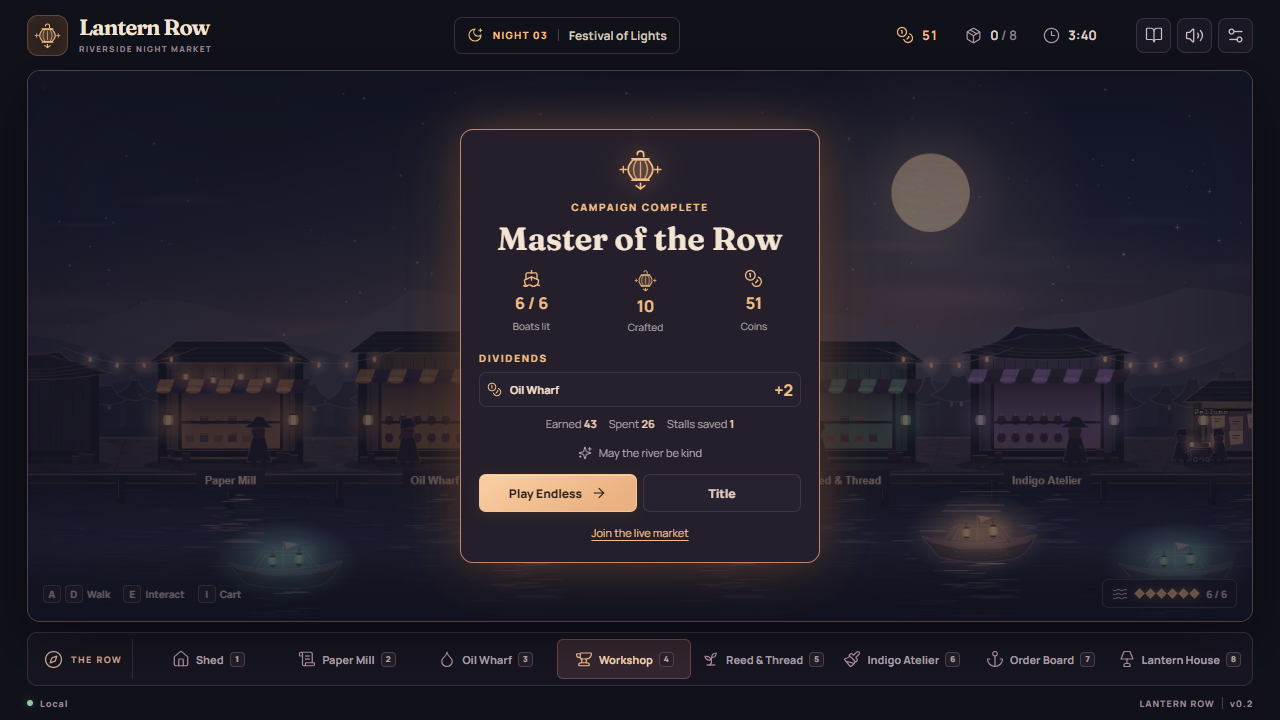
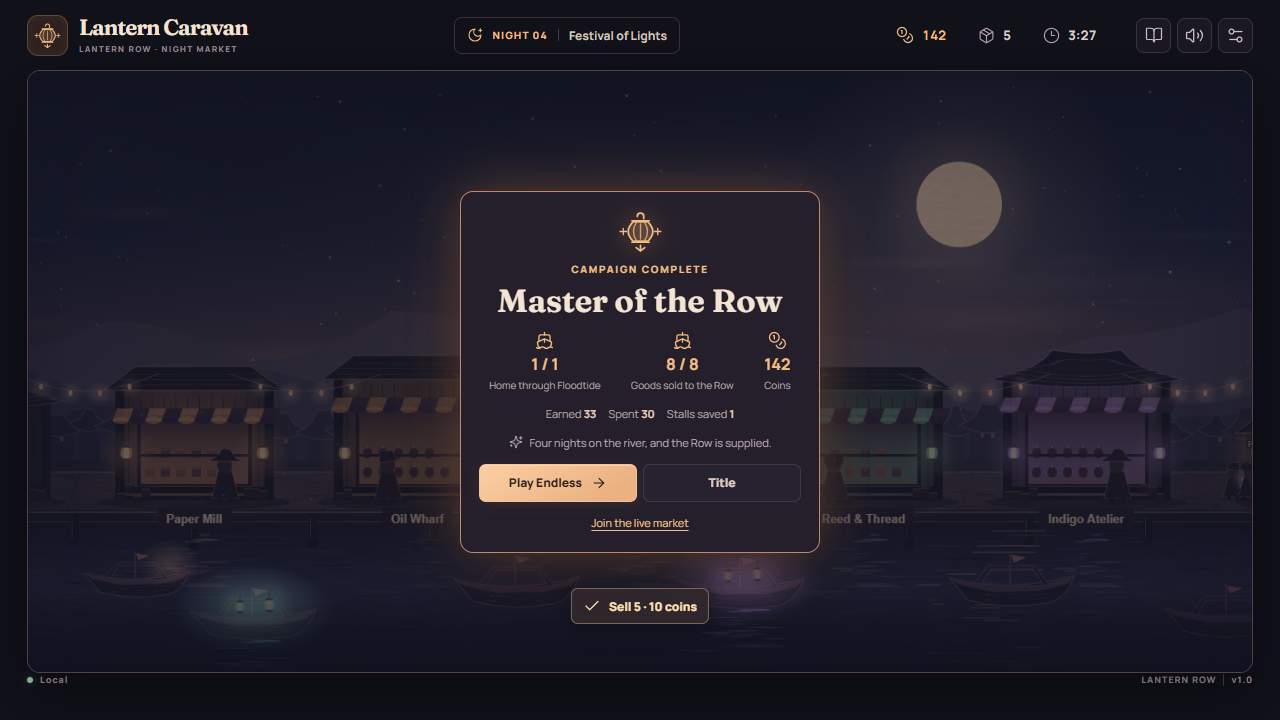
README and night report for the river-first game
- README: the Dock loop, the four river nights, the drawer, and new
  screenshots of the river, the Dock, a haul to sell and the ending.
- The night report shows tonight's river goals instead of boats lit and
  lanterns crafted.
- HANDOFF records the redesign, its checks and what's still open.

diff --git a/apps/web/src/ui/Campaign.tsx b/apps/web/src/ui/Campaign.tsx
@@ -98,7 +98,6 @@ export function NightReport({ snapshot, busy, advance, retry, title, live }: {
   const complete = snapshot.objective.complete;
   const finale = snapshot.mode === "campaign" && snapshot.night === 4 && complete;
   const dividends = Object.entries(snapshot.merchants).filter(([, merchant]) => Number(merchant.dividend));
-  const boats = snapshot.orders.filter(order => order.state === "filled").length;
   const canContinue = complete || snapshot.mode === "endless";
   return <div className={`result-shade ${finale ? "festival-finale" : ""}`}>
     <section className="results preparation" aria-label="Night results">
@@ -106,8 +105,8 @@ export function NightReport({ snapshot, busy, advance, retry, title, live }: {
       <div className="eyebrow">{finale ? "CAMPAIGN COMPLETE" : nightLabel(snapshot.night) + " · RESULTS"}</div>
       <h2>{finale ? "Master of the Row" : complete ? snapshot.nightName : "The Row is closing"}</h2>
       <div className="result-metrics">
-        <div><Ship size={19}/><b>{boats} / 6</b><small>Boats lit</small></div>
-        <div><LanternMark size={23}/><b>{finale ? snapshot.lifetimeCrafted : snapshot.delivered}</b><small>{finale ? "Crafted" : "Delivered"}</small></div>
+        {/* Tonight's river goals, as the Dock showed them. */}
+        {snapshot.objective.steps.slice(0, 2).map(step => <div key={step.label}><Ship size={19}/><b>{step.count} / {step.target}</b><small>{step.label}</small></div>)}
         <div><Coins size={19}/><b>{snapshot.coins}</b><small>Coins</small></div>
       </div>
       {dividends.length > 0 && <div className="prep-list">
@@ -117,7 +116,7 @@ export function NightReport({ snapshot, busy, advance, retry, title, live }: {
       </div>}
       <div className="result-details"><span>Earned <b>{snapshot.earned}</b></span><span>Spent <b>{snapshot.spent}</b></span>
         {finale && <span>Stalls saved <b>{snapshot.rescued}</b></span>}</div>
-      {finale && <p className="hint"><Sparkles size={14}/> {snapshot.orders.flatMap(order => order.wishes)[0] ?? "Your light will carry downriver."}</p>}
+      {finale && <p className="hint"><Sparkles size={14}/> Four nights on the river, and the Row is supplied.</p>}
       <div className="button-pair">
         {snapshot.mode === "live" ? <button className="subtle" onClick={title}>Leave the Row</button> : <>
           <button className="primary" onClick={canContinue ? advance : retry} disabled={busy}>

diff --git a/tests/e2e/campaign.spec.ts b/tests/e2e/campaign.spec.ts
@@ -42,10 +42,11 @@ export async function playCampaign(page: Page) {
     await expect(river).toHaveCount(0);
   };
   /** Ember Falls is straight up the river from the Landing. */
-  const emberFalls = async (size: number) => {
+  const emberFalls = async (size: number, shot?: string) => {
     const trade = river.getByRole("button", { name: /Trade at Ember Falls/ });
     await hold(["w", "Shift", " "], () => trade.isVisible());
     await expect(trade).toBeVisible();
+    if (shot) await capture(shot);
     await page.keyboard.press("e");
     await expect(market.getByRole("heading", { name: "Ember Falls" })).toBeVisible();
     await buy("Lamp oil", size);
@@ -88,9 +89,10 @@ export async function playCampaign(page: Page) {
   await expect(dock.getByRole("status")).toContainText("Cast off");
   await capture("dock");
   await castOff();
-  await emberFalls(10);
+  await emberFalls(10, "river-run");
   await moor();
   await expect(dock.getByText("River run 1/1")).toBeVisible();
+  await capture("dock-haul");
   await sellHaul();
   await closeNight();
   await button("Next night").click();

diff --git a/README.md b/README.md
@@ -1,8 +1,8 @@
 # Lantern Caravan
 
-A night market where every merchant is an AI-run business, and you can own a piece of it. The market is **Lantern Row**; the game is **Lantern Caravan**. The planned Night 4 Floodtide procession of six festival boats is **the Lantern Caravan**.
+A river trading game. Run a barge upriver, buy cargo where it's cheap, fight off pirates, and sell it to the merchants of **Lantern Row**, a night market where every merchant is an AI-run business with its own purse. The game is **Lantern Caravan**; the market is **Lantern Row**.
 
-![Festival boats lighting up in Lantern Row](docs/media/first-light.gif)
+![The barge on Ember Cut, about to trade at Ember Falls](docs/media/river-run.png)
 
 ## Play
 
@@ -13,31 +13,42 @@ npm ci
 npm run dev
 ```
 
-Open the URL Vite prints. In **First Light**, your cart starts with two paper and two oil. Visit the Workshop, craft lanterns, then deliver them at the Order Board. Deliver three lanterns to unlock **The Dark Wharf**. Night 3, **Pirates on the Reach**, asks you to break the Marsh Bend boom, fill a contract or escort, and deliver two colored lanterns. Night 4 is the **Festival of Lights**: light all six boats, then carry your cart and shares into Endless.
+Open the URL Vite prints and press **Start**. You arrive at **the Dock**: tonight's goal, a hint for the next step, one **Cast off** button, the Harbor Bell's jobs, your hold, and the Row's merchants. The loop is simple:
 
-Click a location or use **1–8** to walk there. **A/D** or **←/→** walks manually, **E** interacts, **I** opens the cart, **J** opens the journal, **H** opens history, and **Esc** closes or pauses. Hover an ingredient for its name or click it to find a stall. A local save is automatic.
+1. **Cast off.** The Dock suggests the best run: which village sells a good cheap and which merchant is short of it.
+2. **Upriver**, buy cargo at a village, fight off pirates, and race the clock home.
+3. **Sell your haul** from the Dock. A merchant short of a good pays you its full asking price, up to three times the base price when it's scarce. Click a merchant's card for the full trade panel and shares.
 
-From Night 2 onward, visit **The Landing** to cast off on a River Run, before the market opens or during the night. The **Harbor Bell** lists supply contracts, escorts and relief hauls: on The Dark Wharf, haul oil from Ember Falls to relight the wharf, or pledge shares to rescue it. Upriver, buy freely at any village, fight off pirates and armored gunboats, break toll booms, and collect floating fuel, shot and repair barrels. Moor at The Landing to settle, then sell your haul on the Row or use it at the Workshop. Leaving during the night costs night time; shared rooms keep trading while you're away.
+The campaign is four river nights:
 
-On the river, **WASD** or **arrows** steer, **Shift** boosts, **Space** fires at the nearest threat, and the **mouse** aims and fires manually. **E** trades, moors, salvages a wreck or visits a riverside stop, **Q** spends one oil on a flare, **M** opens the map, **J** opens the Harbor Bell, and **Esc** pauses outside shared rooms. On touchscreens, use the steering stick and the fire, boost and flare buttons. Each run has a 2:30 timer, shorter when you leave late in the night.
+| Night | Goal |
+| --- | --- |
+| 1 · First Light | **Your first haul**: one run and six goods sold to the Row. |
+| 2 · The Dark Wharf | **Relight the wharf**: accept the Harbor Bell's relief job and haul oil from Ember Falls. |
+| 3 · Pirates on the Reach | **Clear the reach**: break the Marsh Bend boom and deliver a contract. |
+| 4 · Festival of Lights | **Ride the Floodtide**: get home through both lock gates when the river rises, and sell eight goods. |
 
-At The Landing's **Barge** tab, choose Balanced, Runner, Ironclad or Gunner trim. Switching is free and takes effect when you cast off; the HUD names your trim. Trims unlock on campaign Night 3 and are always available in Endless and live rooms.
+Endless nights and live rooms ask you to **keep the Row supplied**: two runs and twelve goods sold. A local save is automatic. **J** opens the journal, **H** the market history, and **Esc** pauses.
 
-The Barge tab also previews your upgrades and **paint, bow lantern and prow figure**. Upgrades add deck crates, iron bands and plating, larger cannons and twin barrels, extra stacks and a stern paddle wheel. Paid finishes fund harbor relief; once bought, they stay yours across nights and refit free. Finishes change appearance only.
+On the river, **WASD** or **arrows** steer, **Shift** boosts, **Space** fires at the nearest threat, and the **mouse** aims and fires manually. **E** trades, moors, salvages a wreck or visits a riverside stop, **Q** spends one oil on a flare, **M** opens the map, **J** opens the Harbor Bell, and **Esc** pauses outside shared rooms. On touchscreens, use the steering stick and the fire, boost and flare buttons. Each run has a 2:30 timer, shorter when you leave late in the night. Leaving during the night costs night time; shared rooms keep trading while you're away.
 
-Gold **skiffs** ram your barge and spill cargo: recover it within 20 seconds. Coral **raiders** patrol at medium range; purple **gunboats** fire twin shots from farther away. Bounties are 6, 8 and 14 coins respectively, while the harbor fund lasts.
+The **Harbor Bell** lists supply contracts, escorts and relief hauls: guaranteed pay for a delivery. Choose Balanced, Runner, Ironclad or Gunner **trim** on the Dock before you cast off; trims unlock on campaign Night 3 and are always available in Endless and live rooms.
 
-You can also **post a Bell order** at The Landing: name a village good, how many and what you'll pay per unit. Your coins wait at the Harbor Bell, and the rival haulers, each with their own purse, decide whether the job is worth the trip. They're paid per unit delivered to you; whatever is left comes back when the night ends.
+The Dock's drawer (**Barge, upriver prices, wrecks and orders**) holds the rest:
 
-On festival nights the final boat opens **Floodtide**. If you're upriver when it starts, the river rises and you have 60 seconds to sail through both lock gates and moor at The Landing. Make it and a supply contract pays its premium twice; miss it and the village you bought from takes the cargo back at its buyback price. The Landing shows when Floodtide opens, and no barge leaves once it has.
+- **Barge upgrades and finishes.** Upgrades add deck crates, iron bands and plating, larger cannons and twin barrels, extra stacks and a stern paddle wheel. Paint, bow lantern and prow figure change appearance only; paid finishes fund harbor relief.
+- **Upriver prices** at each village, with the trusted-hauler discount once you've earned it.
+- **The harbor almanac**, which warns of village events a night ahead: an oil glut or a pressing strike at Ember Falls, a mill flood at Millbrook, a dye bloom or reed blight at Reedmarsh. Merchants read it too and restock early.
+- **Wrecks.** Hauls that pirates sink keep their cargo in the water and open for salvage at the next dusk, for two nights.
+- **Bell orders** (live rooms and Endless): name a village good, how many and what you'll pay. Your coins wait at the bell, and rival haulers, each with their own purse, decide whether the job is worth the trip.
 
-The **harbor almanac** at The Landing warns of village events a night before they happen: an oil glut or a pressing strike at Ember Falls, a mill flood at Millbrook, a dye bloom or reed blight at Reedmarsh. Merchants read it too and restock early before a shortage.
+Gold **skiffs** ram your barge and spill cargo: recover it within 20 seconds. Coral **raiders** patrol at medium range; purple **gunboats** fire twin shots from farther away. Bounties are 6, 8 and 14 coins, while the harbor fund lasts. Two or three optional **riverside stops** appear on each run (a stranded fisher, a lock keeper's shed, an overturned punt), each offering one choice of hull, fuel or ammo.
 
-Hauls that pirates sink become **wrecks**: their cargo stays in the water and opens for salvage at the next dusk, for two nights, before the river takes it. The Landing lists every wreck. Two or three optional **riverside stops** appear on each run (a stranded fisher, a lock keeper's shed, an overturned punt), each offering one choice of hull, fuel or ammo.
+On festival nights the river rises in a **Floodtide**. If you're upriver when it starts, you have 60 seconds to sail through both lock gates and moor at The Landing. Make it and a supply contract pays its premium twice; miss it and the village you bought from takes the cargo back at its buyback price.
 
-| First Light | The Dark Wharf | Festival of Lights |
+| The Dock | Home with a haul | Campaign complete |
 | --- | --- | --- |
-| ![The title over the riverside market](docs/media/the-row.png) | ![The closed Oil Wharf and rescue offering](docs/media/dark-wharf.png) | ![The completed festival](docs/media/festival.png) |
+| ![The Dock on Night 1: tonight's goal, Cast off, jobs and merchants](docs/media/dock.png) | ![Back at the Dock with twelve lamp oil to sell](docs/media/dock-haul.png) | ![The campaign's ending](docs/media/festival.png) |
 
 ## Live market and tests
 

diff --git a/docs/HANDOFF.md b/docs/HANDOFF.md
@@ -1,5 +1,15 @@
 # Lantern Caravan handoff
 
+## River-first redesign · 7 November 2026
+
+Playtesting found the barge hard to find (locked on Night 1, behind one of eight locations), too many systems before anything was fun, and hauling that didn't pay. The game is now a barge trading game; see [RIVER_FIRST.md](RIVER_FIRST.md) for the design.
+
+- **Start** opens the Dock (`apps/web/src/river/Dock.tsx`): tonight's goal, a next-step hint, one Cast off button, Harbor Bell jobs, selling your hold, and merchant cards that open the existing trade panel. The old Landing panel lives in the Dock's drawer (`<Landing inDock/>`). Players don't walk the Row; the route nav, walking keys and the Phaser scene's stall clicks are for watchers only. Offline nights open straight away.
+- **Objectives** (`objective()` in `packages/game-core/src/model.ts`) count `runsTonight`, `soldTonight` (river goods sold to stalls) and `floodTonight` on the trader, reset each night. Night 1: 1 run + 6 sold. Night 2: relight the wharf. Night 3: boom + contract. Night 4: Floodtide return + 8 sold. Endless and live: 2 runs + 12 sold. Night 1's barge is no longer under repair, and its freight keeps 2 oil and 3 paper on the Row so the first haul has buyers.
+- **Pricing** (`tradePrice(..., haul)` in `pricing.ts`): a stall short of a river good (stock + unit < target) pays a seller the full ask instead of 70%. Rival freight stays wholesale. Reedmarsh harvests 16 dye (was 14). A stall closed for stock gets its relief bell even after a cash rescue (`refreshRelief`).
+- **Checks:** `npm test` 185 passed; `npm run build` passed; e2e 11 passed in Chrome and Firefox (the campaign spec plays all four nights from the Dock); 2000-night soak passed for seeds 17, 42, 93, 166 and 271 (max dark streak 1, no invariant errors).
+- **Not done yet:** a profit summary after each run; night names still say First Light and Festival of Lights; the ambient village boats pile thousands of units of goods a village doesn't make in its account (harmless to prices, predates this work).
+
 ## Work packages · 5–6 November 2026
 
 ### Scope and §16.4 hand-back
